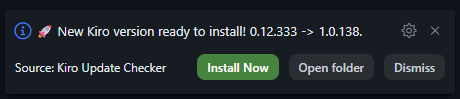
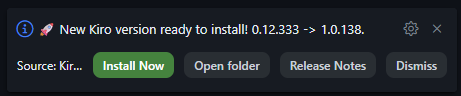
chore: update notification screenshots

diff --git a/src/extension.ts b/src/extension.ts
@@ -321,8 +321,8 @@ async function handleManualDownload(context: vscode.ExtensionContext, currentVer
 				}
 			}
 		} else if (selection === t('Release Notes')) {
-			log('User requested release notes.');
-			await showReleaseNotes(latestVersion);
+			log('Opening changelog for version ' + latestVersion);
+			await openReleaseNotes(latestVersion);
 		} else if (selection === t('Dismiss')) {
 			log(`User dismissed notifications for version ${latestVersion}.`);
 			await context.globalState.update(STATE_KEY_DISMISSED_VERSION, latestVersion);
@@ -529,8 +529,8 @@ function showInstallNotification(context: vscode.ExtensionContext, currentVersio
 				log('Failed to open folder.');
 			}
 		} else if (selection === t('Release Notes')) {
-			log('User requested release notes.');
-			await showReleaseNotes(latestVersion);
+			log('Opening changelog for version ' + latestVersion);
+			await openReleaseNotes(latestVersion);
 		} else if (selection === t('Dismiss')) {
 			log(`User dismissed version ${latestVersion}.`);
 			await context.globalState.update(STATE_KEY_DISMISSED_VERSION, latestVersion);
@@ -701,74 +701,12 @@ function compareVersions(a: string, b: string): number {
 	return 0;
 }
 
-const METADATA_BASE = 'https://prod.download.desktop.kiro.dev/stable';
-
-function metadataUrlForPlatform(info: PlatformInfo | null): string {
-	if (info?.platform === 'darwin') {
-		return `${METADATA_BASE}/metadata-dmg-${info.platform}-${info.arch}-stable.json`;
-	}
-	if (info?.platform === 'linux') {
-		return `${METADATA_BASE}/metadata-${info.platform}-${info.arch}-stable.json`;
-	}
-	return `${METADATA_BASE}/metadata-linux-x64-stable.json`;
+function changelogUrl(version: string): string {
+	return `https://kiro.dev/changelog/ide/${version.replace(/\./g, '-')}/`;
 }
 
-async function fetchReleaseNotes(version: string, info: PlatformInfo | null): Promise<string | null> {
-	const url = metadataUrlForPlatform(info);
-	try {
-		const data = await new Promise<string>((resolve, reject) => {
-			const req = https.get(url, { headers: { 'User-Agent': userAgentStr() }, timeout: 10000 }, (res) => {
-				let body = '';
-				res.on('data', (chunk) => body += chunk);
-				res.on('end', () => resolve(body));
-			});
-			req.on('error', reject);
-			req.on('timeout', () => { req.destroy(); reject(new Error('timeout')); });
-		});
-
-		const json = JSON.parse(data);
-		const releases = json.releases;
-		if (!releases || releases.length === 0) { return null; }
-
-		const latest = releases[releases.length - 1]?.updateTo;
-		if (!latest) { return null; }
-
-		const date = latest.pub_date || '';
-		const notes = (latest.notes && !latest.notes.startsWith('Kiro-')) ? latest.notes : '';
-
-		let result = `**Version:** ${latest.version}`;
-		if (date) { result += `\n**Release date:** ${date}`; }
-		if (notes) { result += `\n\n${notes}`; }
-		return result;
-	} catch {
-		return null;
-	}
-}
-
-async function showReleaseNotes(version: string) {
-	const info = detectPlatform();
-	const notes = await fetchReleaseNotes(version, info);
-
-	if (notes) {
-		const selection = await vscode.window.showInformationMessage(
-			notes,
-			{ modal: false },
-			t('Open Downloads Page')
-		);
-		if (selection === t('Open Downloads Page')) {
-			await vscode.env.openExternal(vscode.Uri.parse(DOWNLOADS_PAGE_URL));
-		}
-	} else {
-		const selection = await vscode.window.showInformationMessage(
-			`${t('Release Notes')} (${version})`,
-			{ modal: false },
-			t('Open Downloads Page'),
-			t('Dismiss')
-		);
-		if (selection === t('Open Downloads Page')) {
-			await vscode.env.openExternal(vscode.Uri.parse(DOWNLOADS_PAGE_URL));
-		}
-	}
+async function openReleaseNotes(version: string) {
+	await vscode.env.openExternal(vscode.Uri.parse(changelogUrl(version)));
 }
 
 function buildDownloadUrl(version: string, info: PlatformInfo): string {